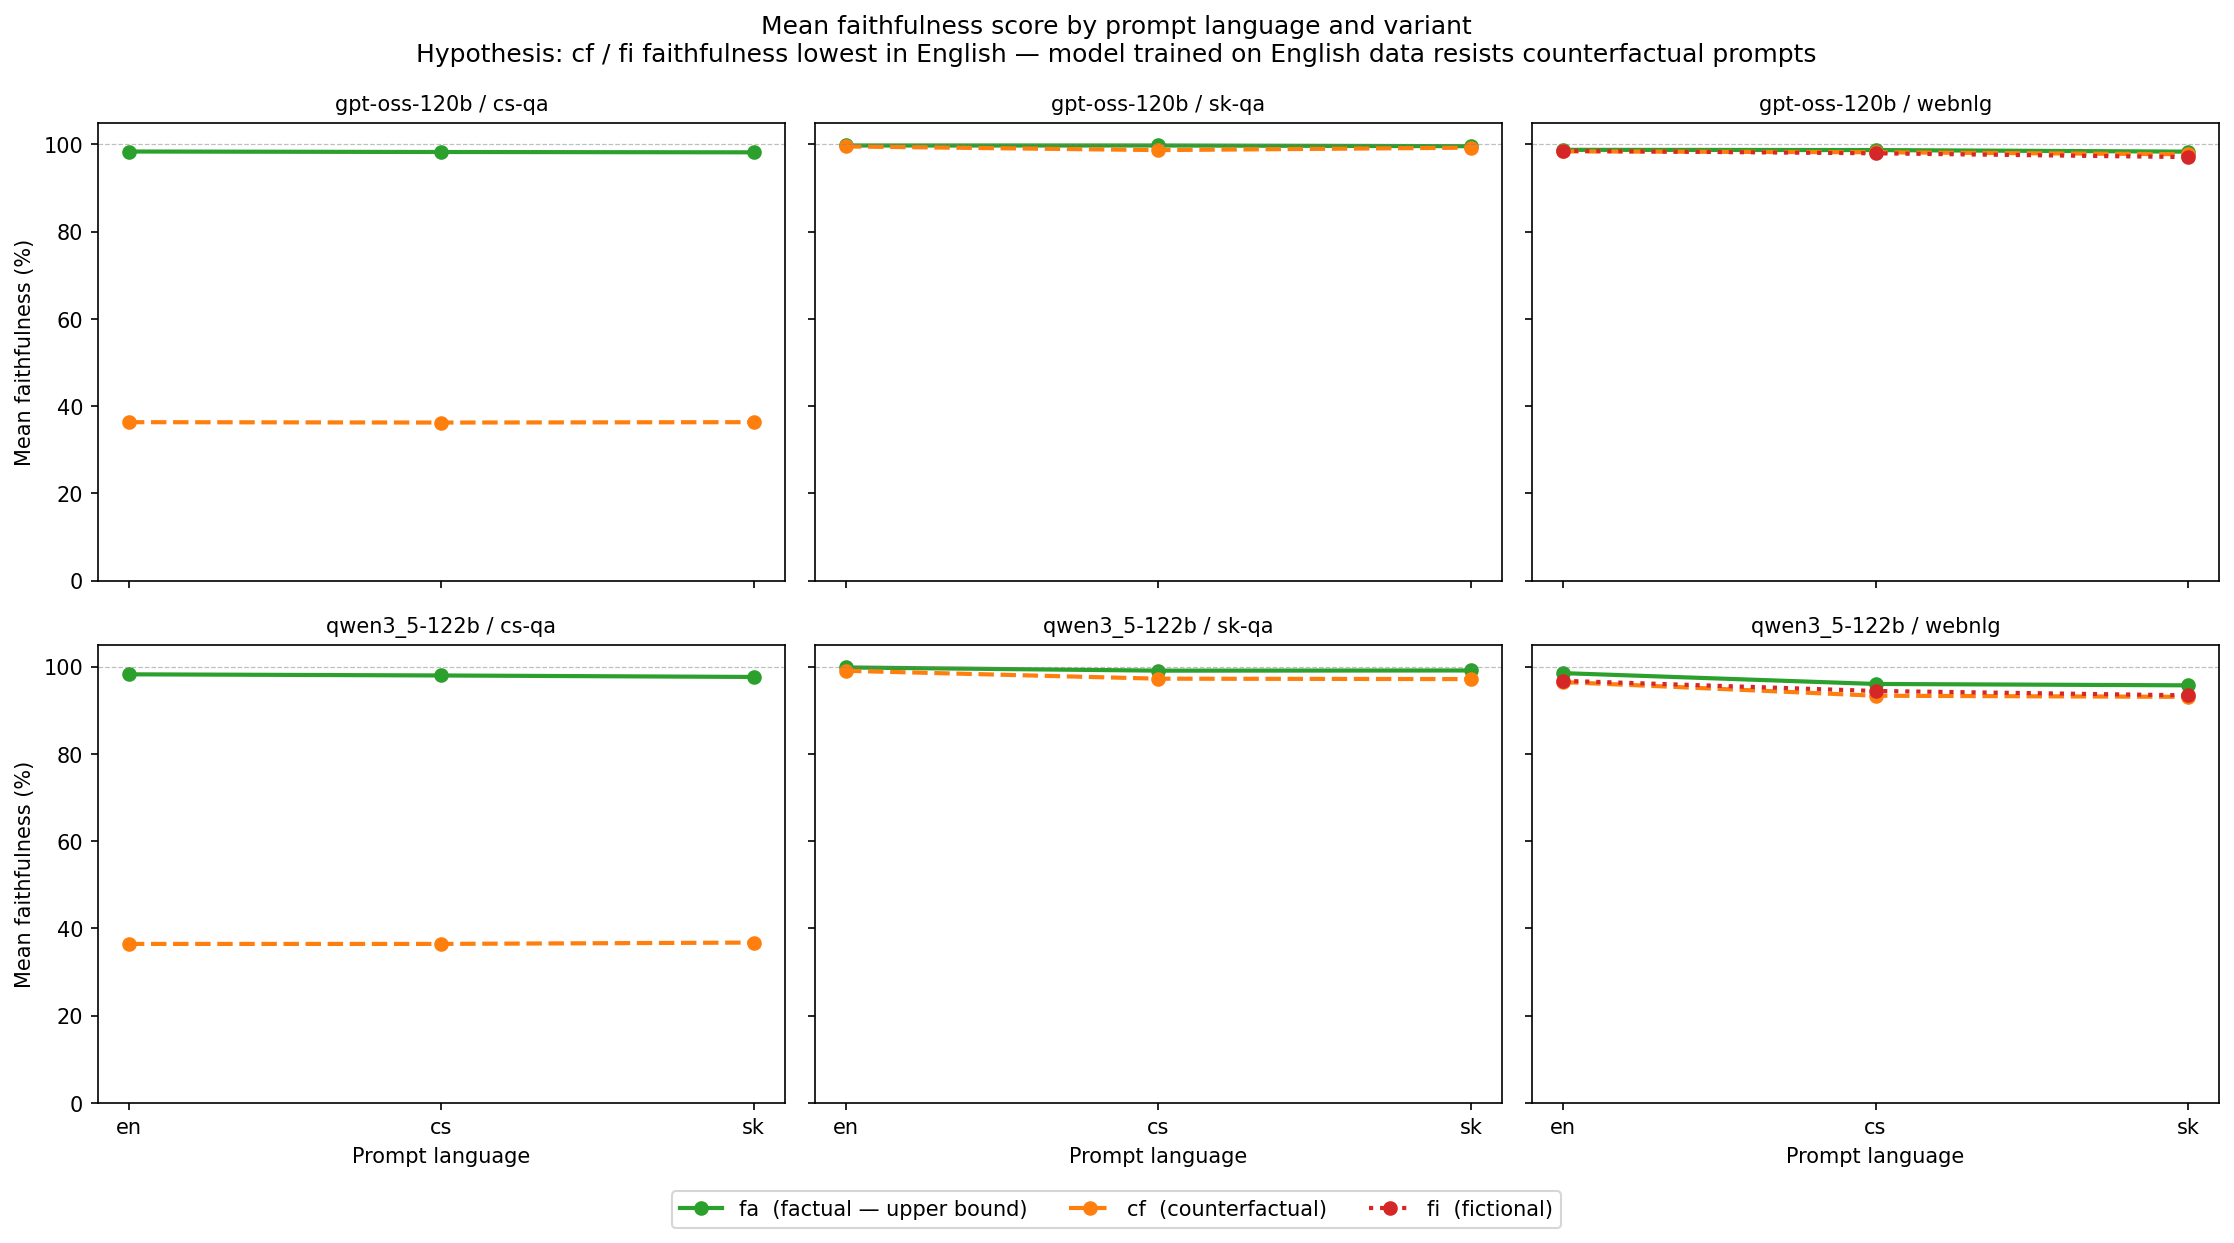
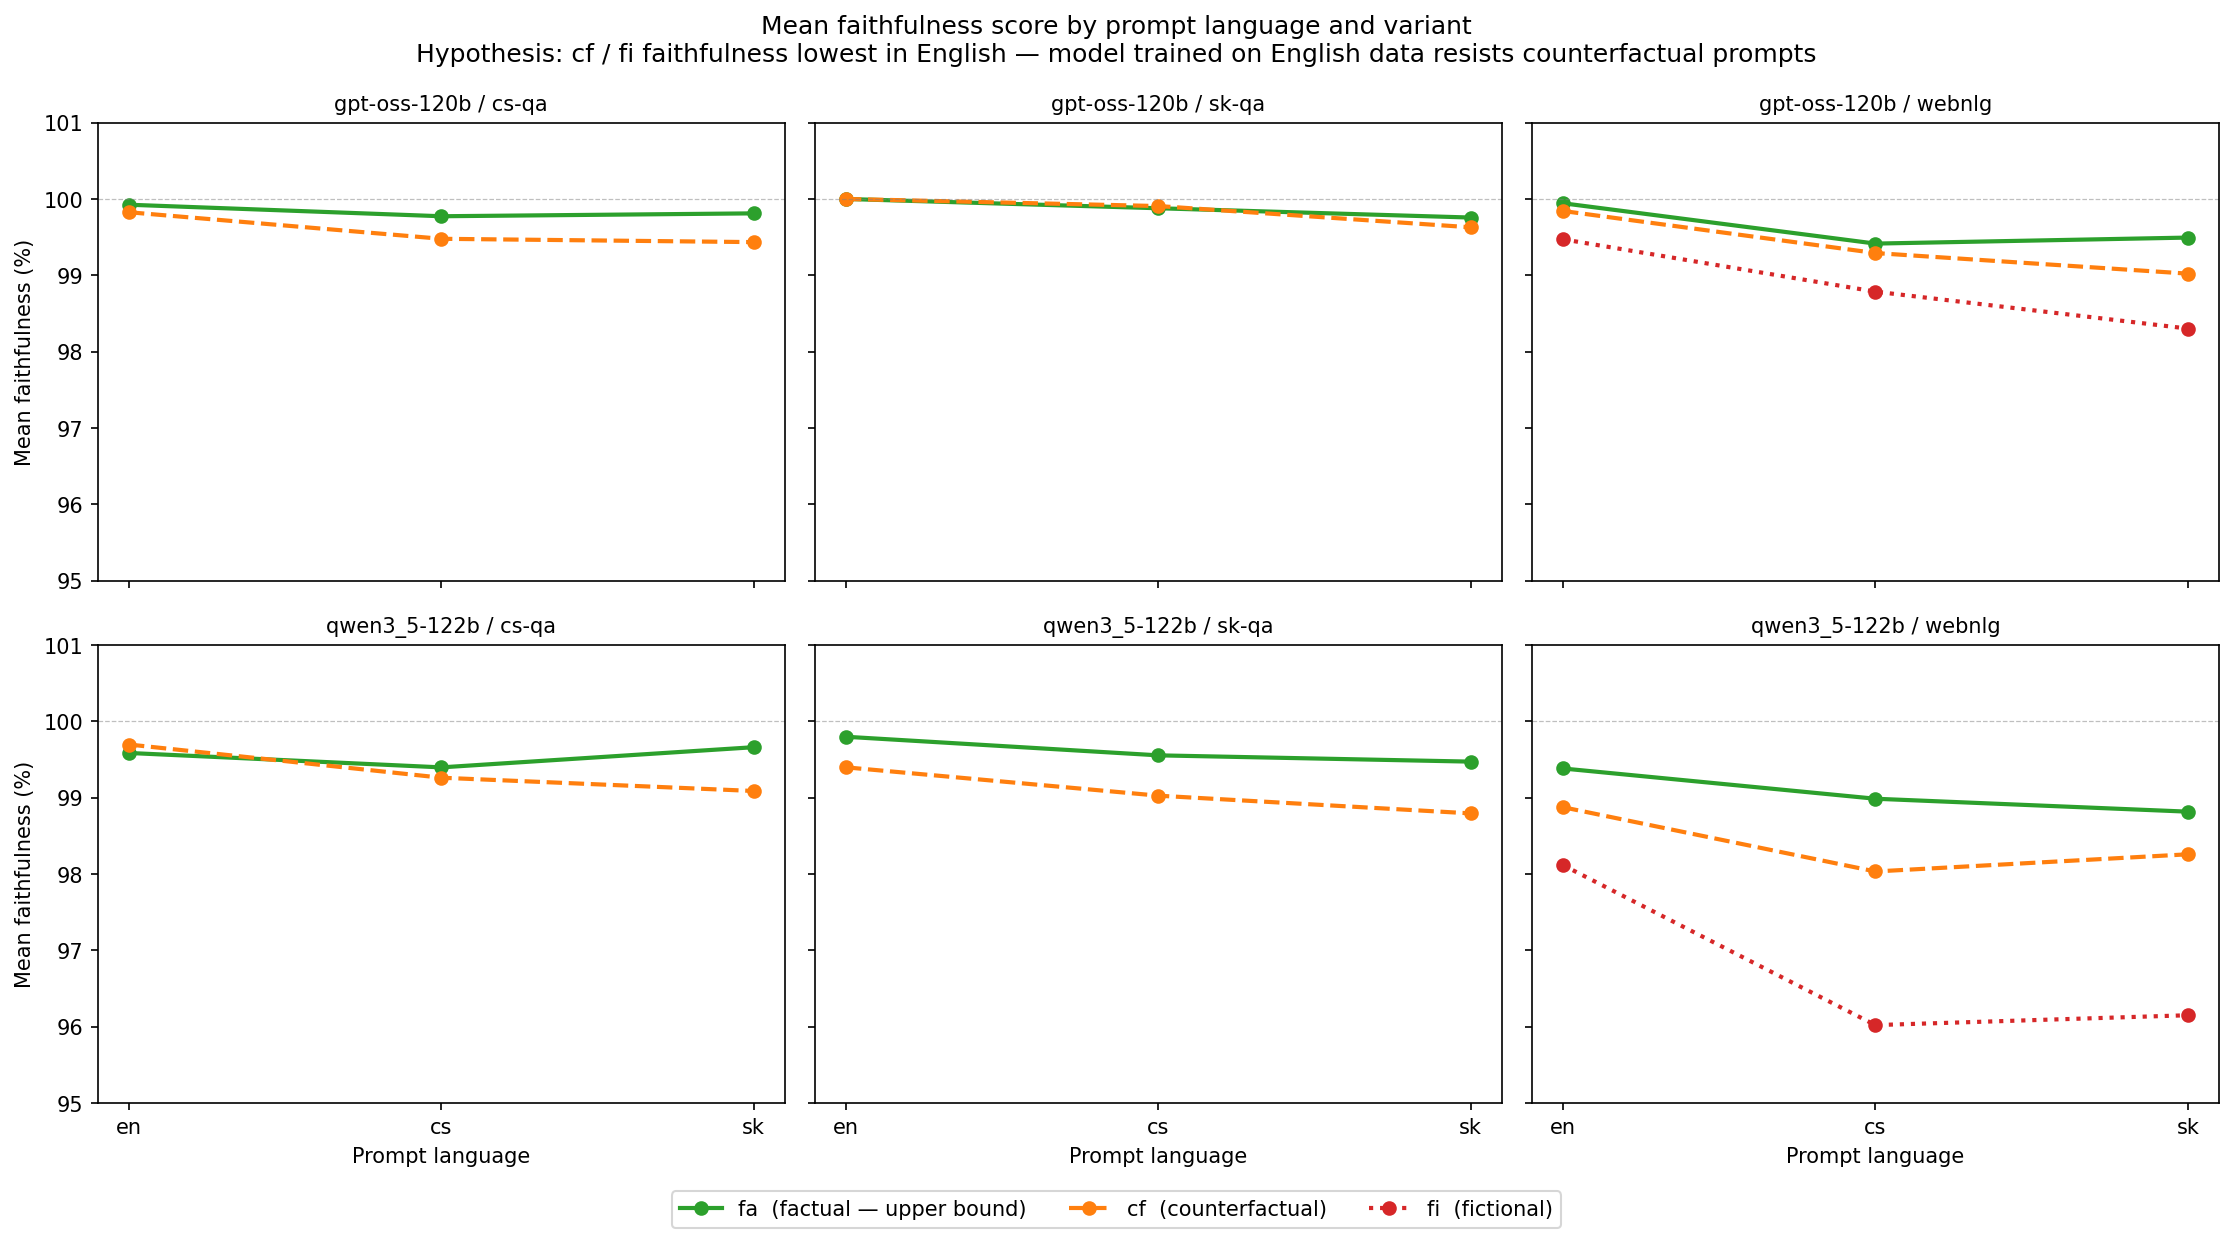
bigger close up in faithfulness by language

diff --git a/analysis/faithfulness_by_language.py b/analysis/faithfulness_by_language.py
@@ -55,7 +55,7 @@ def plot_faithfulness(results: pd.DataFrame, output_path: Path) -> None:
                 ax.plot(LANGUAGE_ORDER, means, marker="o", linewidth=2,
                         **VARIANT_STYLE[variant])
 
-            ax.set_ylim(0, 105)
+            ax.set_ylim(95, 101)
             ax.axhline(100, color="gray", linewidth=0.6, linestyle="--", alpha=0.5)
             ax.set_title(f"{model} / {dataset}", fontsize=10)
             ax.set_xlabel("Prompt language" if row == len(models) - 1 else "")
